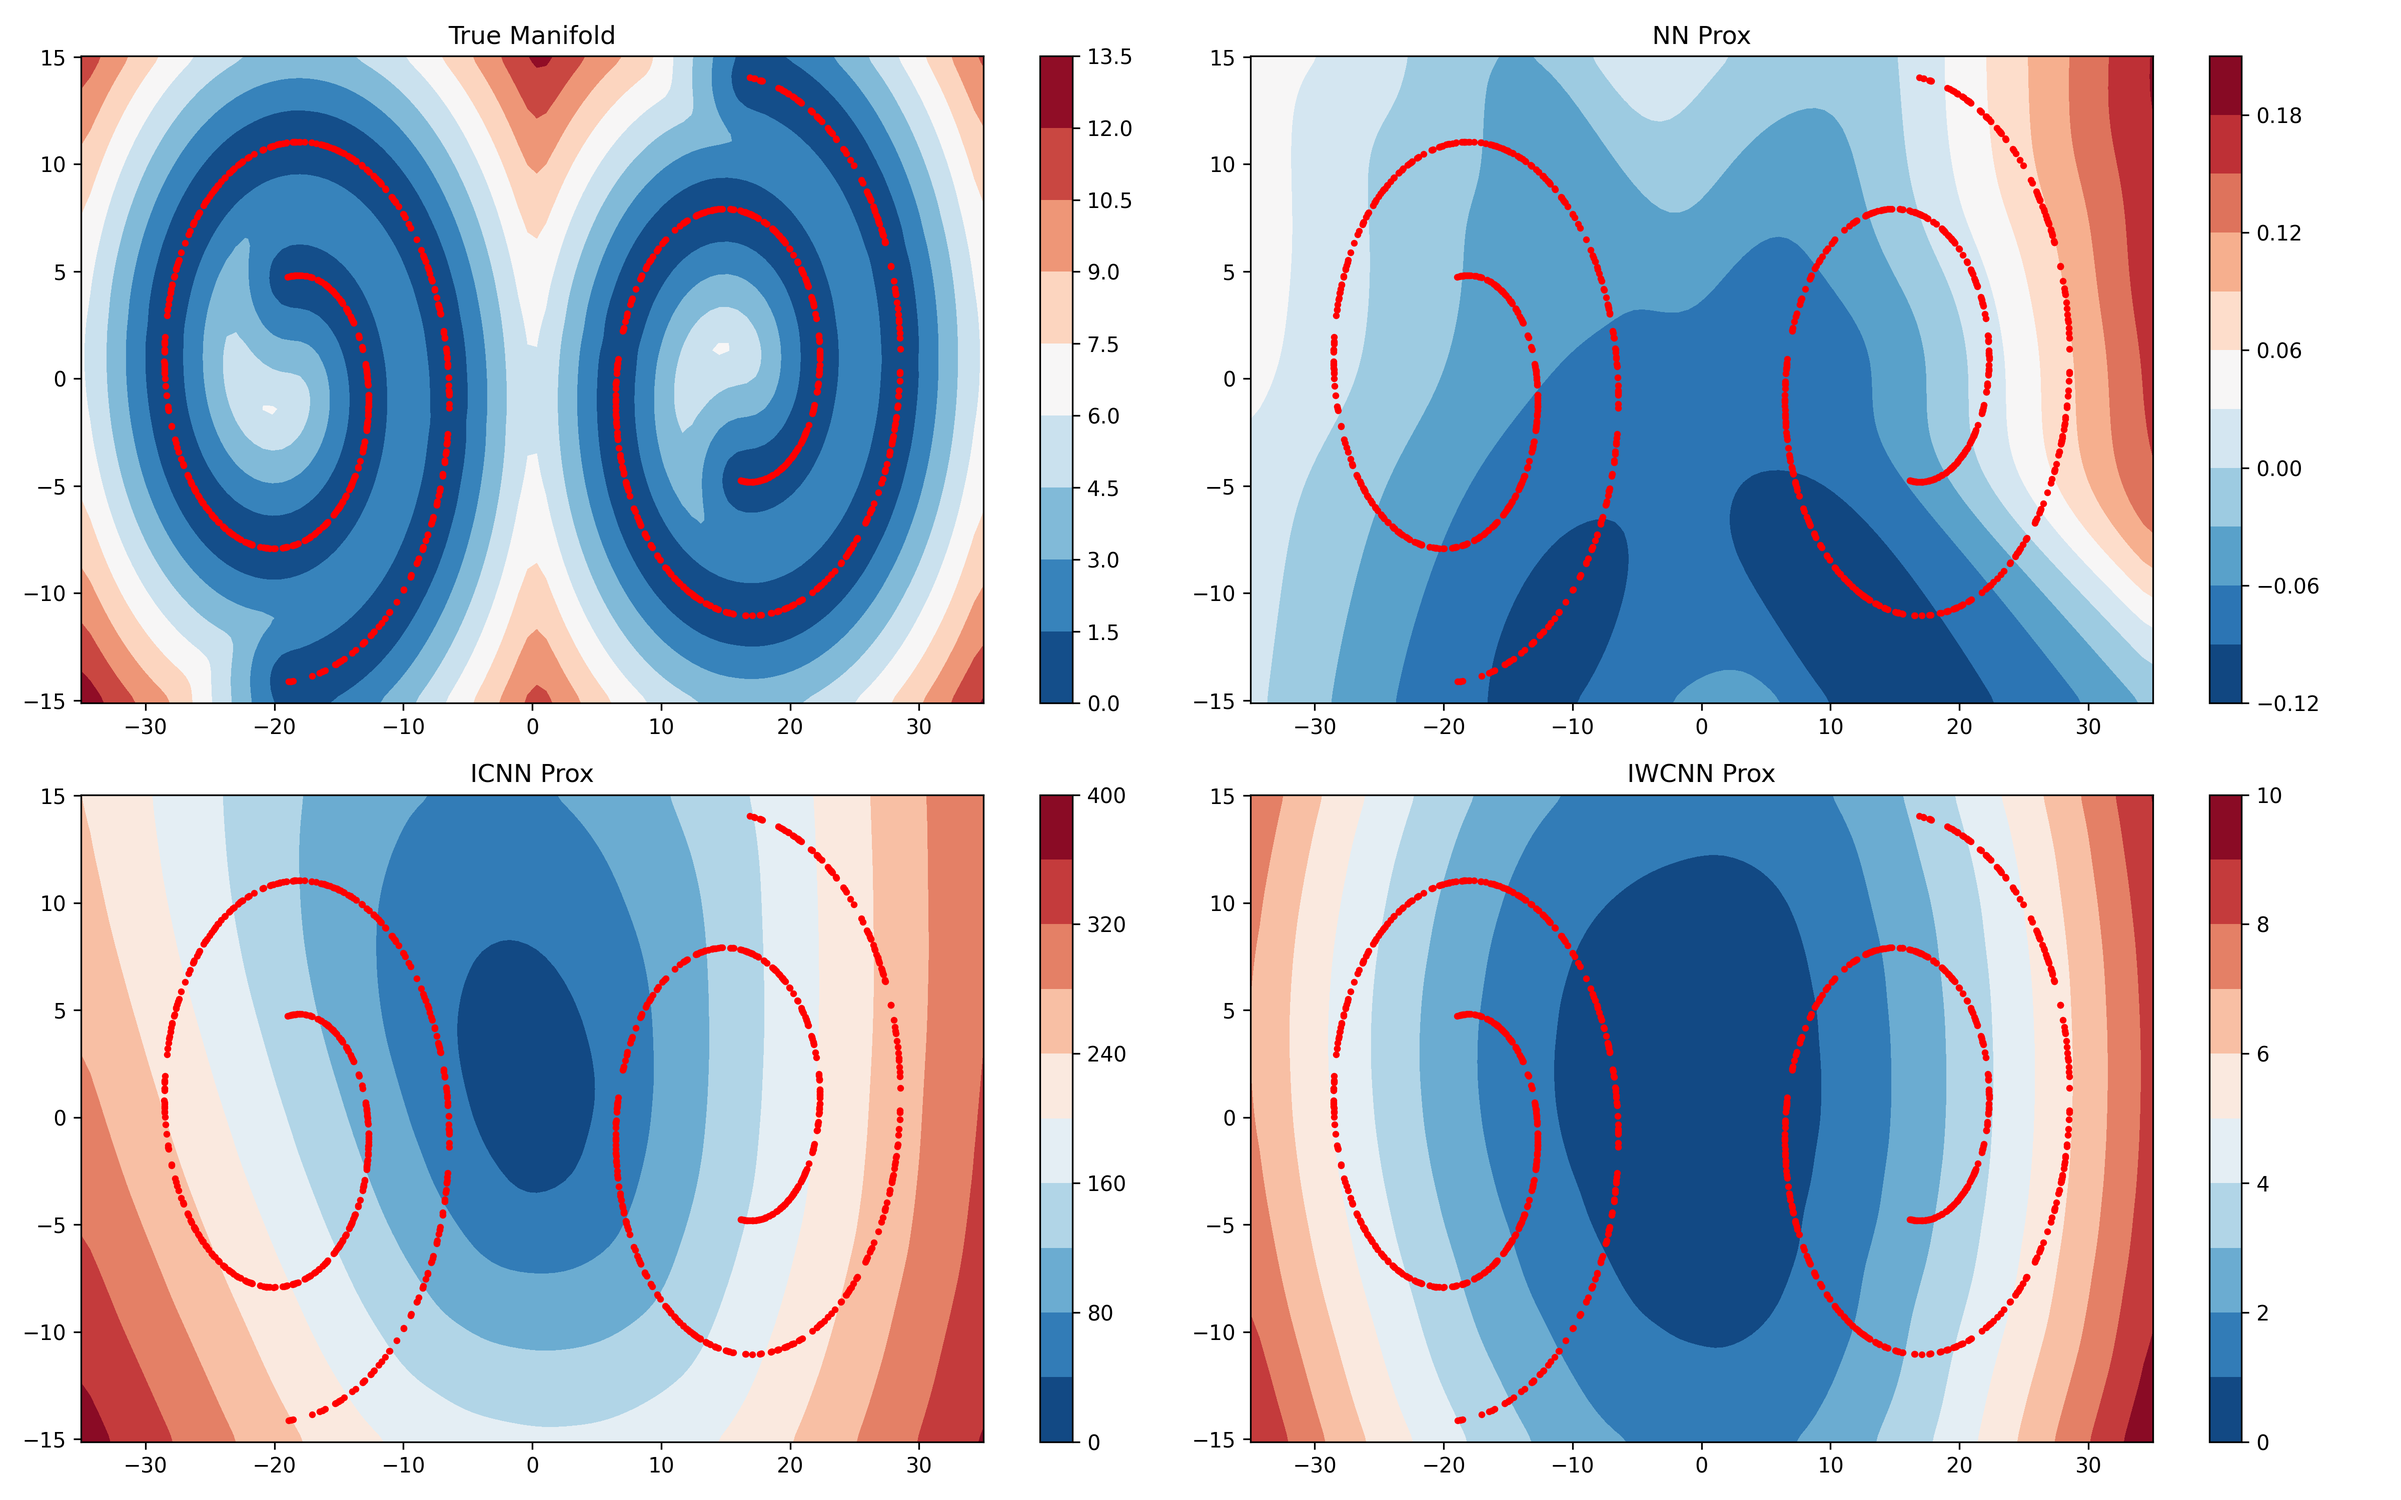
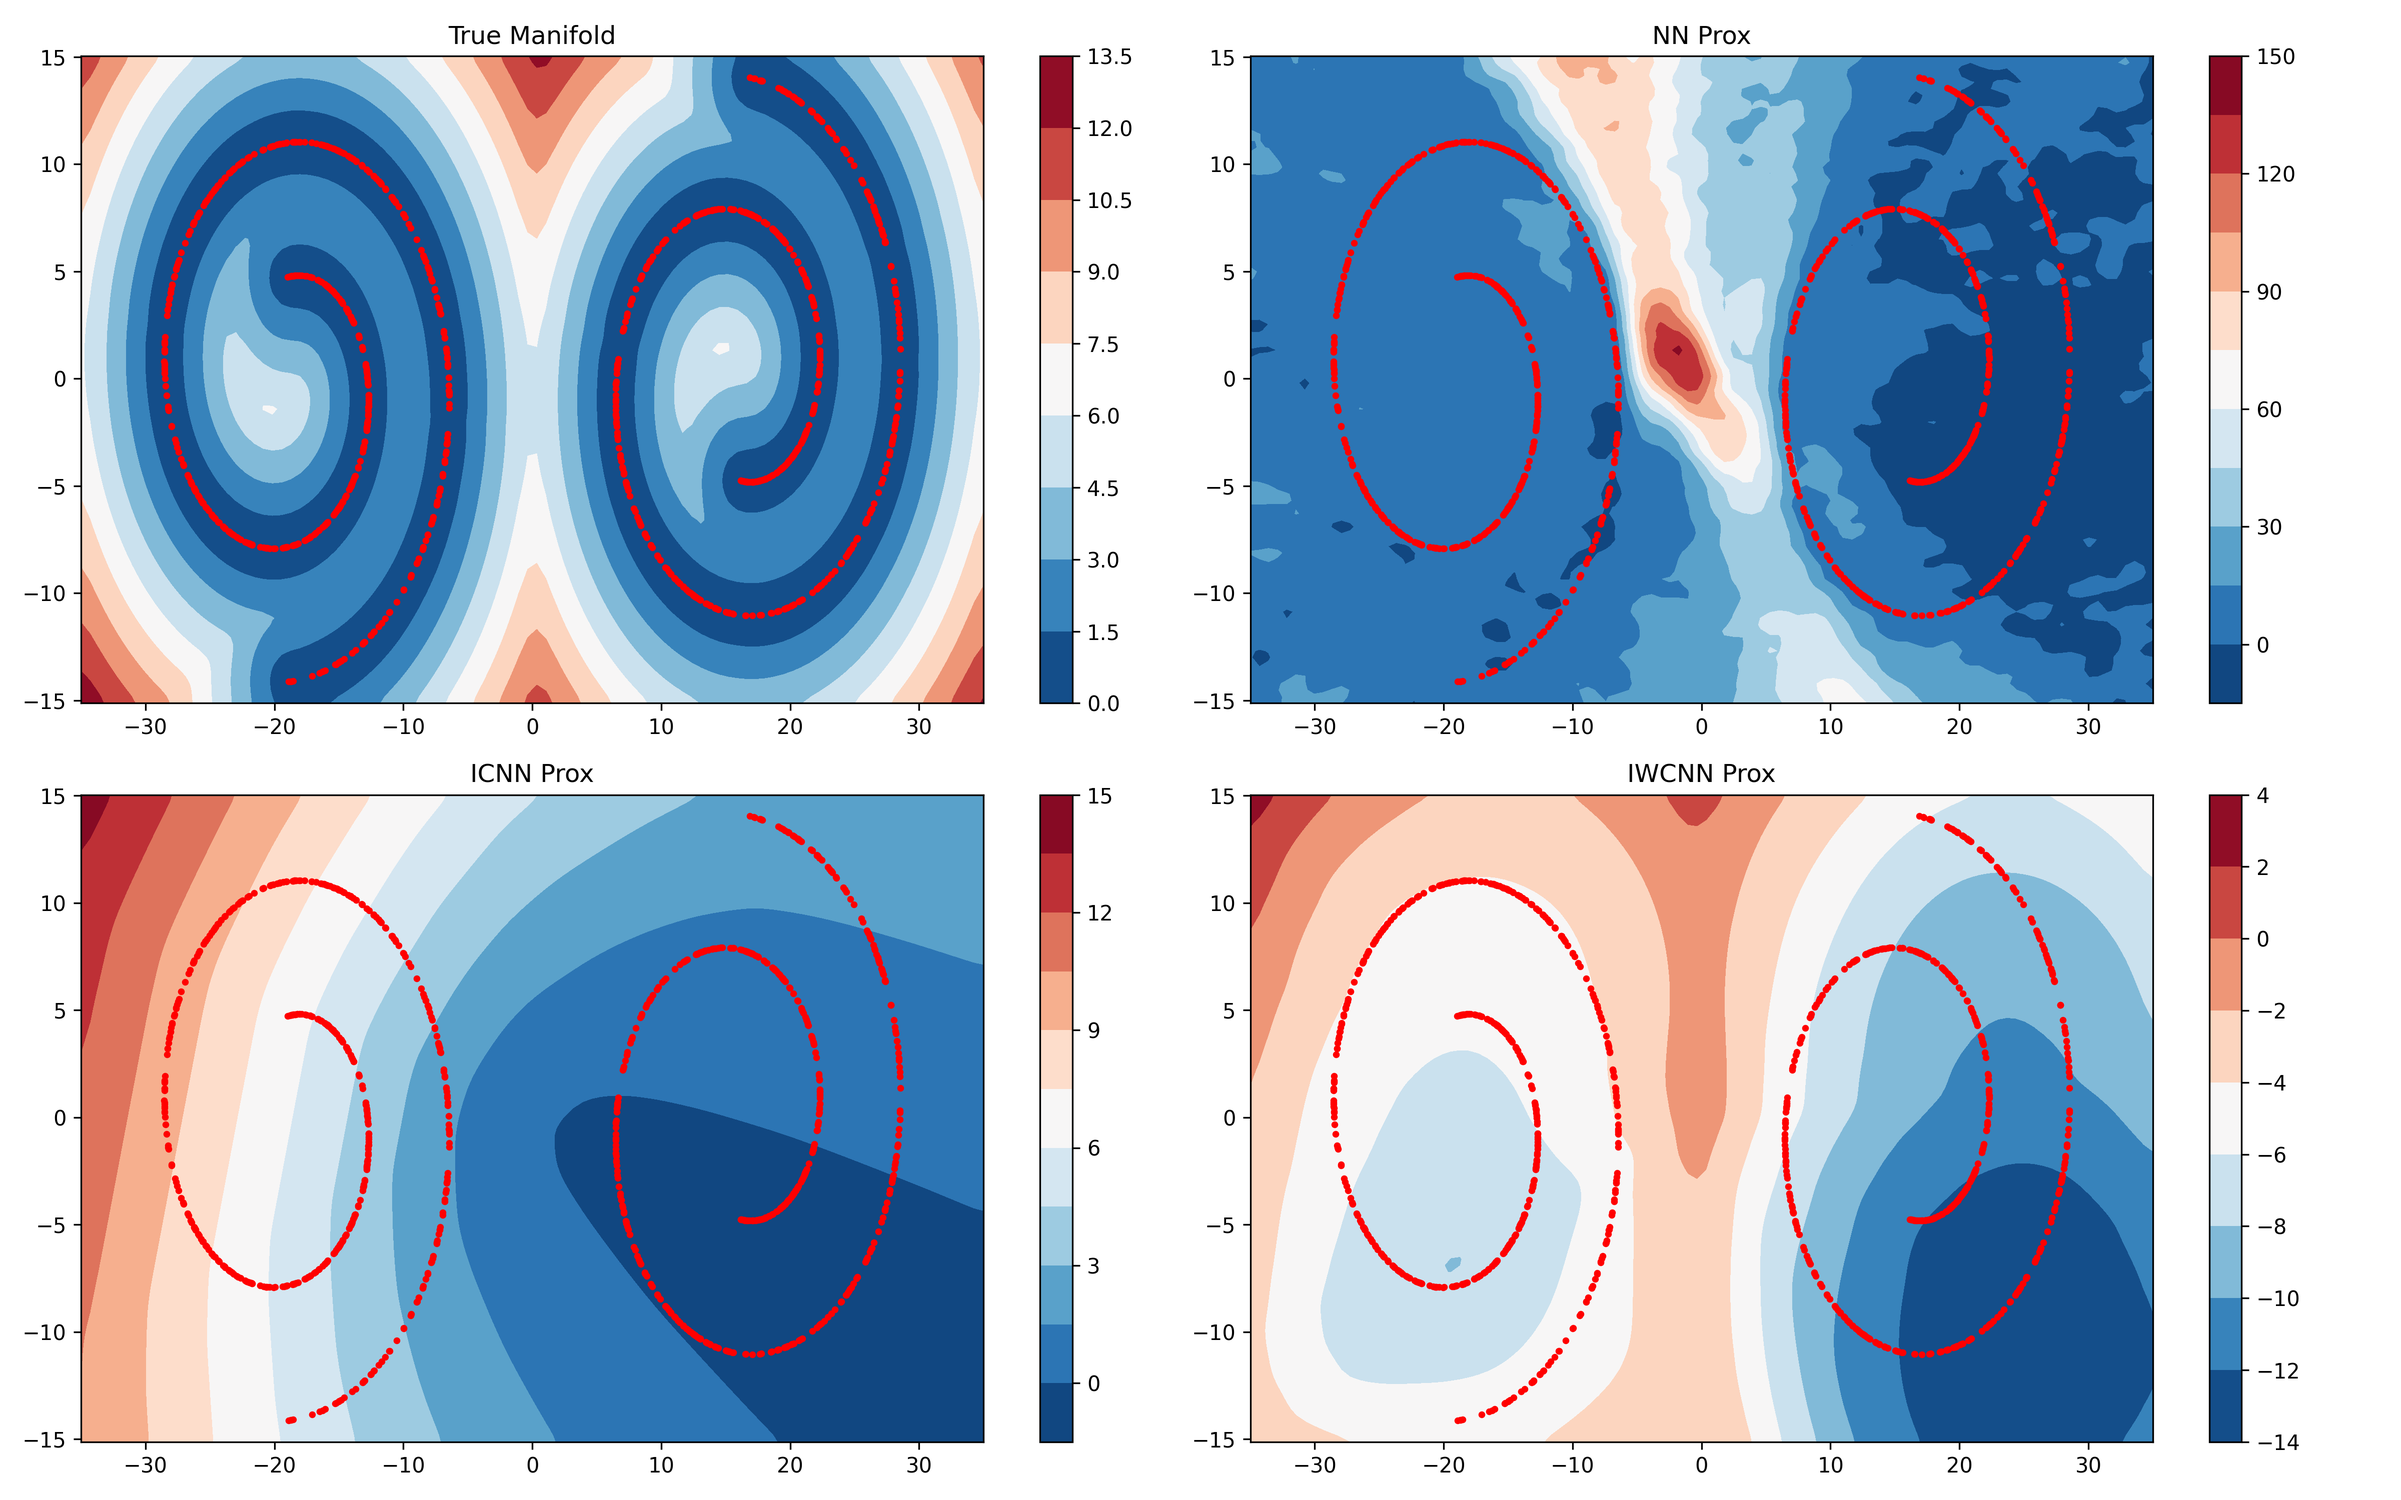
Update result figure with new parameters

diff --git a/2d_swiss_roll.py b/2d_swiss_roll.py
@@ -59,7 +59,7 @@ def train_with_prox(model, X_clean, X_noisy, alpha=0.1, epochs=100, lr=1e-3, mod
     }, reinit=True)
 
     optimizer = optim.Adam(model.parameters(), lr=lr)
-    # scheduler = CosineAnnealingLR(optimizer, T_max=epochs)  # cosine annealing scheduler
+    scheduler = CosineAnnealingLR(optimizer, T_max=epochs)  # cosine annealing scheduler
 
     for epoch in range(epochs):
         optimizer.zero_grad()
@@ -90,6 +90,12 @@ def train_with_prox(model, X_clean, X_noisy, alpha=0.1, epochs=100, lr=1e-3, mod
     wandb.finish()
     return model
 
+def initialize_weights(module, nonlinearity='relu'):
+    for m in module.modules():
+        if isinstance(m, nn.Linear):
+            nn.init.xavier_uniform_(m.weight, gain=nn.init.calculate_gain(nonlinearity))
+            if m.bias is not None:
+                nn.init.zeros_(m.bias)
 
 # Define Models
 class NN(nn.Module):
@@ -97,20 +103,19 @@ class NN(nn.Module):
         super(NN, self).__init__()
         self.network = nn.Sequential(
             nn.Linear(input_dim, hidden_dim),
-            nn.ReLU(),
+            nn.SiLU(),
             nn.Linear(hidden_dim, hidden_dim),
-            nn.ReLU(),
+            nn.SiLU(),
+            nn.Dropout(0.1),
             nn.Linear(hidden_dim, hidden_dim),
-            nn.ReLU(),
-            nn.Linear(hidden_dim, hidden_dim),
-            nn.ReLU(),
+            nn.SiLU(),
             nn.Linear(hidden_dim, 1)
         )
-
-        # initialize_weights(self, nonlinearity='relu')
+        #initialize_weights(self, nonlinearity='silu')
 
     def forward(self, x):
         return self.network(x)
+
 
 
 class ICNN(nn.Module):
@@ -161,22 +166,22 @@ class IWCNN(nn.Module):
 
         self.smooth = nn.Sequential(
             nn.Linear(input_dim, hidden_dim),
-            nn.LeakyReLU(0.01),
+            nn.LeakyReLU(0.05),
             nn.Linear(hidden_dim, hidden_dim),
-            nn.LeakyReLU(0.01),
+            nn.LeakyReLU(0.05),
             nn.Linear(hidden_dim, hidden_dim),
-            nn.LeakyReLU(0.01),
+            nn.LeakyReLU(0.05),
             nn.Linear(hidden_dim, hidden_dim),
-            nn.LeakyReLU(0.01),
+            nn.LeakyReLU(0.05),
             nn.Linear(hidden_dim, hidden_dim),
         )
 
         # Convex network (ICNN)
         self.icnn = nn.Sequential(
             nn.Linear(hidden_dim, hidden_dim),
-            nn.LeakyReLU(0.01),
+            nn.LeakyReLU(0.05),
             nn.Linear(hidden_dim, hidden_dim),
-            nn.LeakyReLU(0.01),
+            nn.LeakyReLU(0.05),
             nn.Linear(hidden_dim, 1)
         )
 
@@ -202,9 +207,9 @@ nn_model = NN()
 icnn_model = ICNN()
 iwcnn_model = IWCNN()
 
-reg_model = train_with_prox(nn_model, X, X_noisy, alpha=0.1, epochs=0, lr=1e-2, model_name='NN')
-icnn_model = train_with_prox(icnn_model, X, X_noisy, alpha=0.1, epochs=0, lr=1e-2, model_name='ICNN')
-iwcnn_model = train_with_prox(iwcnn_model, X, X_noisy, alpha=0.1, epochs=100, lr=1e-2, model_name='IWCNN')
+reg_model = train_with_prox(nn_model, X, X_noisy, alpha=0.1, epochs=100, lr=1e-2, model_name='NN')
+icnn_model = train_with_prox(icnn_model, X, X_noisy, alpha=0.1, epochs=100, lr=1e-2, model_name='ICNN')
+iwcnn_model = train_with_prox(iwcnn_model, X, X_noisy, alpha=0.1, epochs=150, lr=1e-2, model_name='IWCNN')
 
 # Visualization
 x_min, x_max = X[:, 0].min() - 1, X[:, 0].max() + 1
